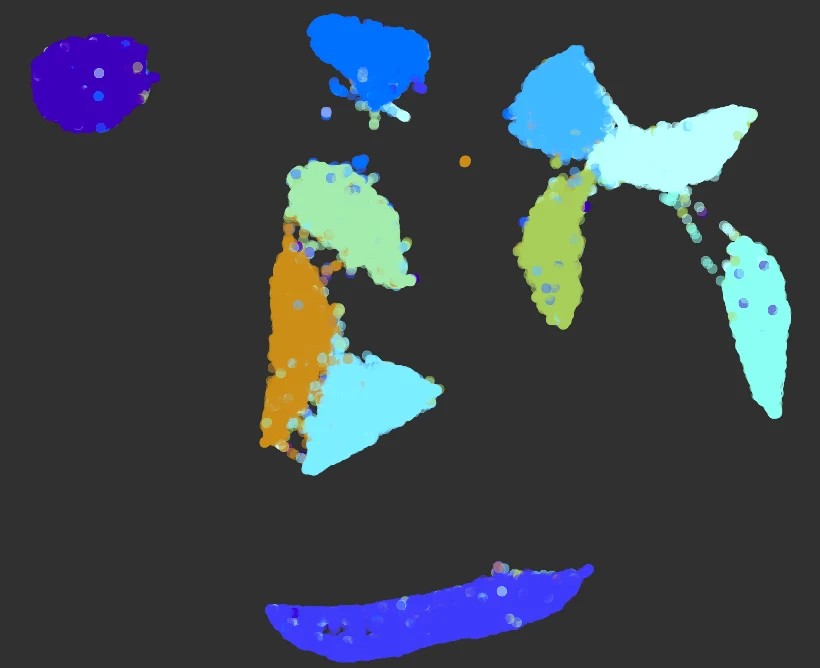
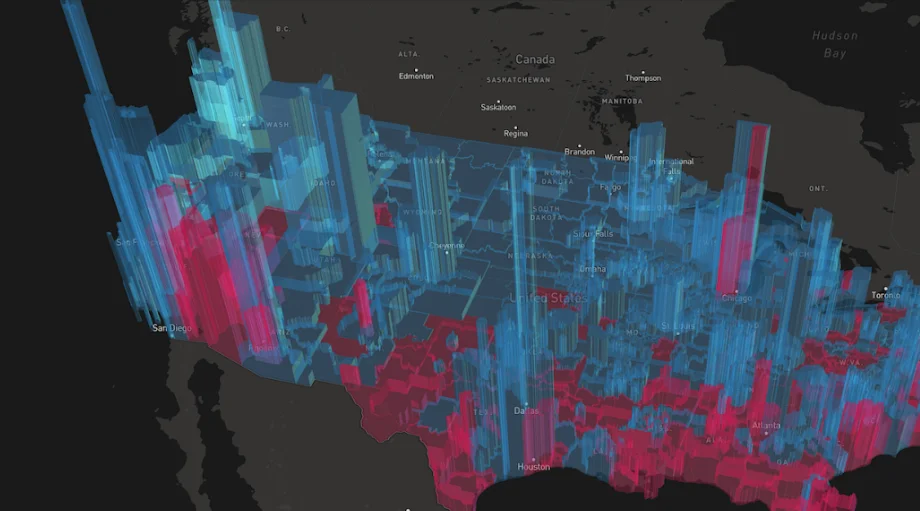
Cleanup

diff --git a/src/markdown/blogs/vkdriven-8.md b/src/markdown/blogs/vkdriven-8.md
@@ -1,11 +1,11 @@
 ---
-title: 'VKDriven #6 - IBL'
-description: 'Image based lighting'
+title: 'VKDriven #8 - Skybox'
+description: 'An HDR skybox, and why I stopped short of image based lighting'
 date: '2026-10-11'
-hidden: true
+hidden: false
 ---
 
-We'll be coming image based lighting today, it seems on the surface very similar to [environment mapping which we previously did here](https://matek.dev/blog/basedlogs-12/).
+The plan for today was image based lighting (IBL), which on the surface seems very similar to [environment mapping which we previously did here](https://matek.dev/blog/basedlogs-12/). I only got as far as the first step, the skybox, so that's what we'll be covering today.
 
 # Skybox
 
@@ -29,8 +29,8 @@ VSOutput main(uint vertexID : SV_VulkanVertexID)
 
 Now you'll notice we also set the depth to 0, there are a few things we do to make sure it renders in the background of the scene.
 
-1. z=0 (as shown above).
-2. The `GREATER_OR_EQUAL` depth test.
+1. z=0 (as shown above), which is the far plane since we use reverse-Z.
+2. The `GREATER_OR_EQUAL` depth test. The depth buffer is cleared to 0, so the sky only passes where nothing else was drawn.
 3. We draw it after the scene.
 
 We then need to turn each sky pixel into a direction in the world, then look up what the environment image shows in that direction.
@@ -62,3 +62,7 @@ float4 main(VSOutput input)
 <Img src="skybox.webp" caption="HDR skybox in Sponza" />
 
 In our previous skybox/cubemap blogs we rendered it as a full on cube (mapping each side of the skybox texture to a different side of the cube). In this case, it's just a full screen triangle where we instead figure out based on the direction of the camera, what part of the texture we should be showing.
+
+# Stopping here
+
+I decided to stop at the skybox rather than go through the rest of IBL (irradiance maps, prefiltered environment maps and a BRDF lookup table). It's a lot of extra work for a fairly subtle difference in a scene like Sponza, and nothing coming up next depends on it, so I'm moving on to other things instead.

diff --git a/src/markdown/projects/vkdriven.md b/src/markdown/projects/vkdriven.md
@@ -12,11 +12,13 @@ I'm writing about the progress in the [VKDriven](/blog/vkdriven-1/) blog series.
 
 ## Done so far
 
-- Vulkan core following [How to Vulkan](https://www.howtovulkan.com/): dynamic rendering, synchronization2, buffer device address and bindless textures
+- Vulkan core following [How to Vulkan](https://www.howtovulkan.com/): dynamic rendering and synchronization2
 - PBR lighting: Cook-Torrance BRDF with metallic-roughness materials and normal mapping
-- glTF 2.0 scenes (Sponza) with GPU-generated mipmaps, one shared vertex/index buffer for the whole scene
+- glTF 2.0 scene loading (Sponza)
+- Shaders read per-frame, material and transform data through buffer device address pointers in push constants, with one bindless texture array, so there are no per-draw descriptor sets
+- Reverse-Z depth buffer for better depth precision at a distance
 - HDR rendering with a tonemapping pass (AgX, ACES, Reinhard, Khronos PBR Neutral) and adjustable exposure
-- Cascaded shadow maps: four cascades fit to the view frustum, with depth bias and PCF filtering
+- Cascaded shadow maps: four stable cascades (bounding-sphere fit and texel snapping to stop shimmering), practical split scheme, normal-offset bias and PCF
 - Slang shaders compiled to SPIR-V at runtime, with hot-reload
 - ImGui debug UI and a fly camera
 
@@ -24,7 +26,6 @@ I'm writing about the progress in the [VKDriven](/blog/vkdriven-1/) blog series.
 
 - **Two-pass Hi-Z occlusion culling**
 - **GPU-driven rendering:** compute frustum culling and the whole scene in one indirect draw call
-- **Image-based lighting:** irradiance and prefiltered environment maps generated in compute shaders
 - **Profiling:** per-pass GPU timings and case studies with Nsight / Radeon GPU Profiler
 
 <Img src="ex1.webp" alt="VKDriven rendering Sponza" />

diff --git a/src/markdown/blogs/vkdriven-7.md b/src/markdown/blogs/vkdriven-7.md
@@ -1,5 +1,5 @@
 ---
-title: 'VKDriven #6 - CSM'
+title: 'VKDriven #7 - CSM'
 description: 'Cascaded shadow maps'
 date: '2026-10-10'
 hidden: false
